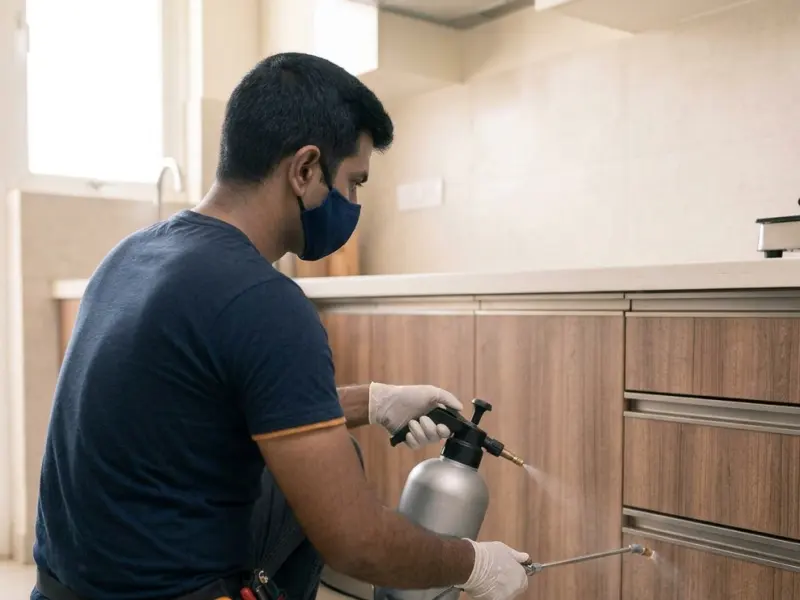
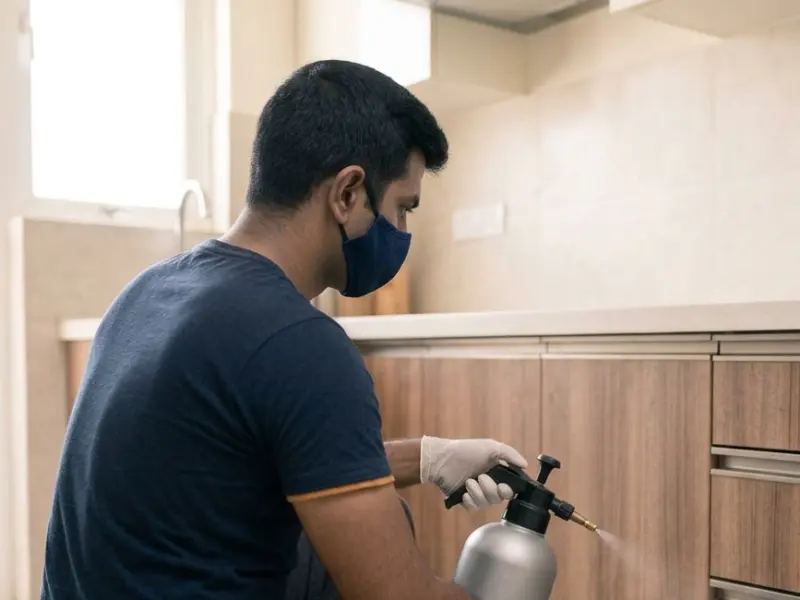
Fix pest-control photo and phone hero spacing
- Re-crop the pest-control photo to remove an AI artefact (a second
  spray wand no real sprayer has)
- Hero photo sits flush under the header on phones
- Services without a photo get a deliberate tinted tile with a large icon

diff --git a/frontend/src/pages/customer/CustomerHome.tsx b/frontend/src/pages/customer/CustomerHome.tsx
@@ -73,7 +73,7 @@ export default function CustomerHome() {
             )}
           </div>
         </div>
-        <div className="order-1 -mx-4 overflow-hidden sm:mx-0 sm:rounded-2xl lg:order-2">
+        <div className="order-1 -mx-4 -mt-6 overflow-hidden sm:mx-0 sm:mt-0 sm:rounded-2xl lg:order-2">
           <img
             src={HERO_PHOTO.src}
             srcSet={`${HERO_PHOTO.small} 720w, ${HERO_PHOTO.src} 1220w`}
@@ -118,8 +118,8 @@ export default function CustomerHome() {
                       className="aspect-[4/3] w-full object-cover transition-transform duration-300 group-hover:scale-[1.03]"
                     />
                   ) : (
-                    <span className="flex aspect-[4/3] w-full items-center justify-center text-ink-soft">
-                      <ServiceIcon service={s} className="h-10 w-10" />
+                    <span className="flex aspect-[4/3] w-full items-center justify-center bg-gradient-to-br from-signal-soft to-paper text-ink-soft transition-colors group-hover:to-signal-soft">
+                      <ServiceIcon service={s} className="h-14 w-14" />
                     </span>
                   )}
                 </span>
